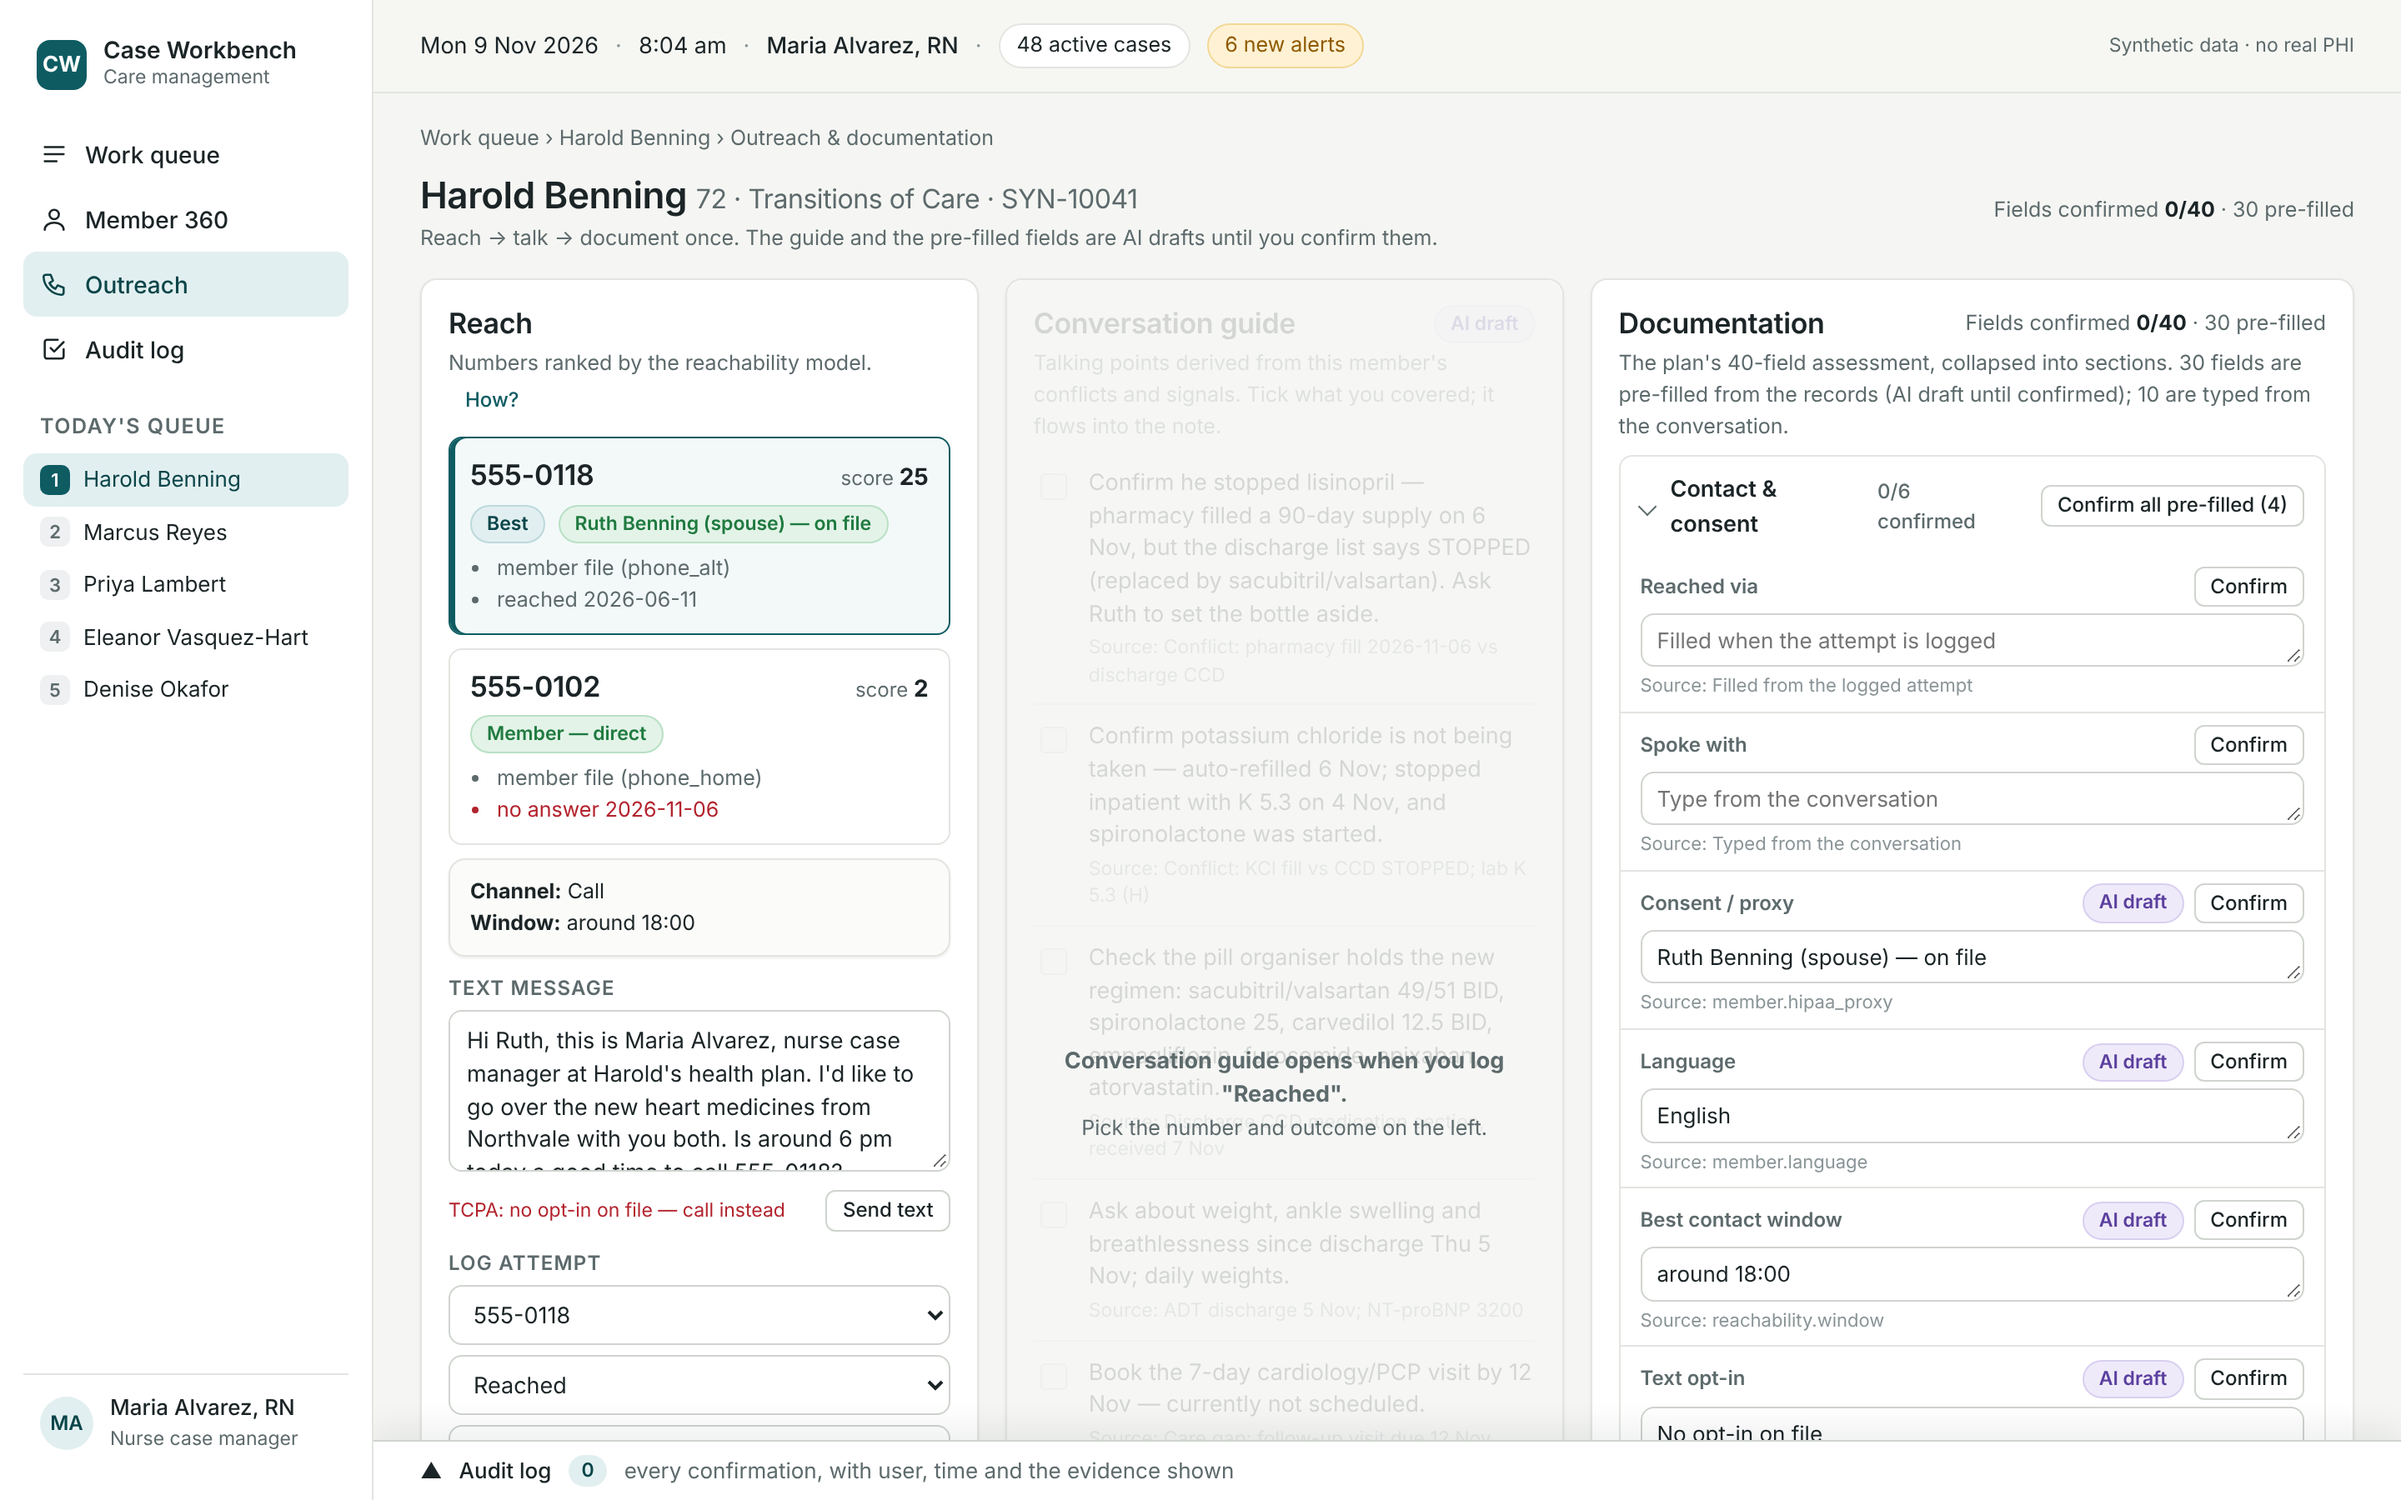
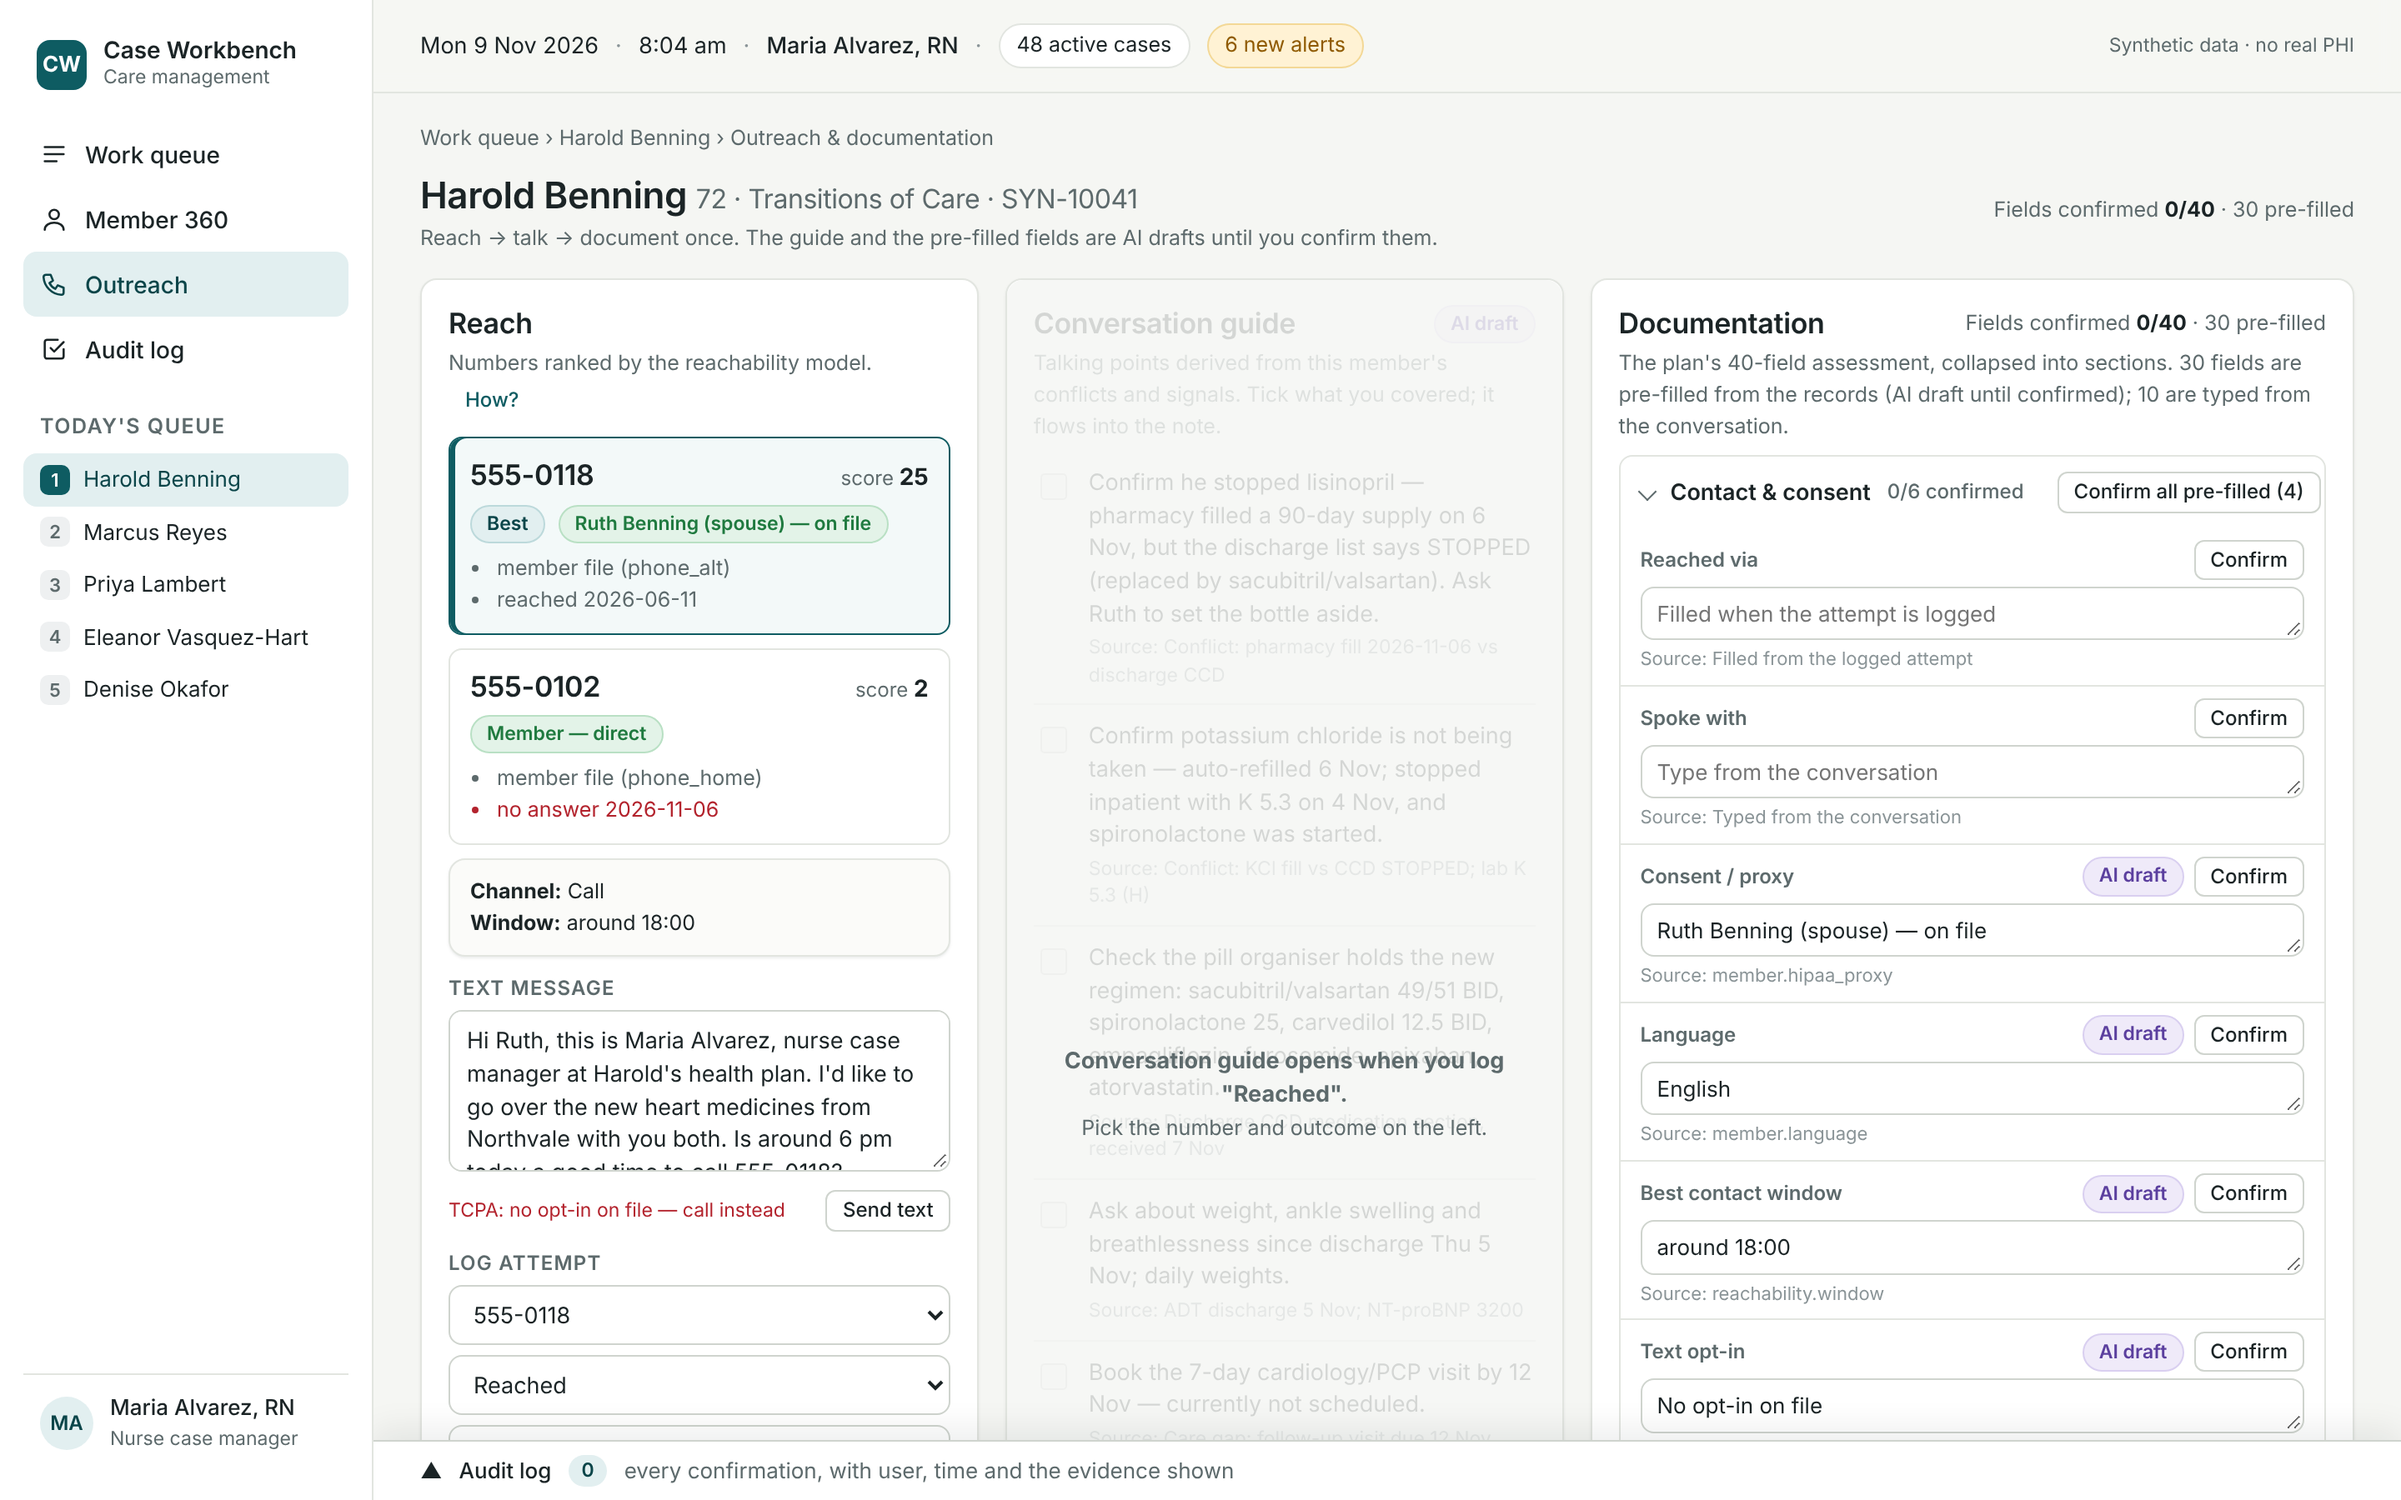
Keep documentation section titles on one line
Claude-Session: https://claude.ai/code/session_0195wKaCP2Pi1L2bpVNEuwnK

diff --git a/index.html b/index.html
@@ -233,7 +233,8 @@ details.sec summary::-webkit-details-marker{display:none}
 details.sec summary::before{content:"";width:7px;height:7px;border-right:1.6px solid var(--muted);border-bottom:1.6px solid var(--muted);transform:rotate(-45deg);transition:transform .15s;flex:none}
 details.sec[open] summary::before{transform:rotate(45deg)}
 details.sec summary:hover{background:var(--grey-soft)}
-details.sec summary .sc{font-size:12px;font-weight:500;color:var(--muted)} details.sec summary .sc.done{color:var(--green)}
+details.sec summary .sn{white-space:nowrap}
+details.sec summary .sc{font-size:12px;font-weight:500;color:var(--muted);white-space:nowrap} details.sec summary .sc.done{color:var(--green)}
 details.sec summary .grow{flex:1}
 details.sec .fld{padding:7px 12px}
 .fld{padding:8px 0;border-bottom:1px solid var(--line)}
